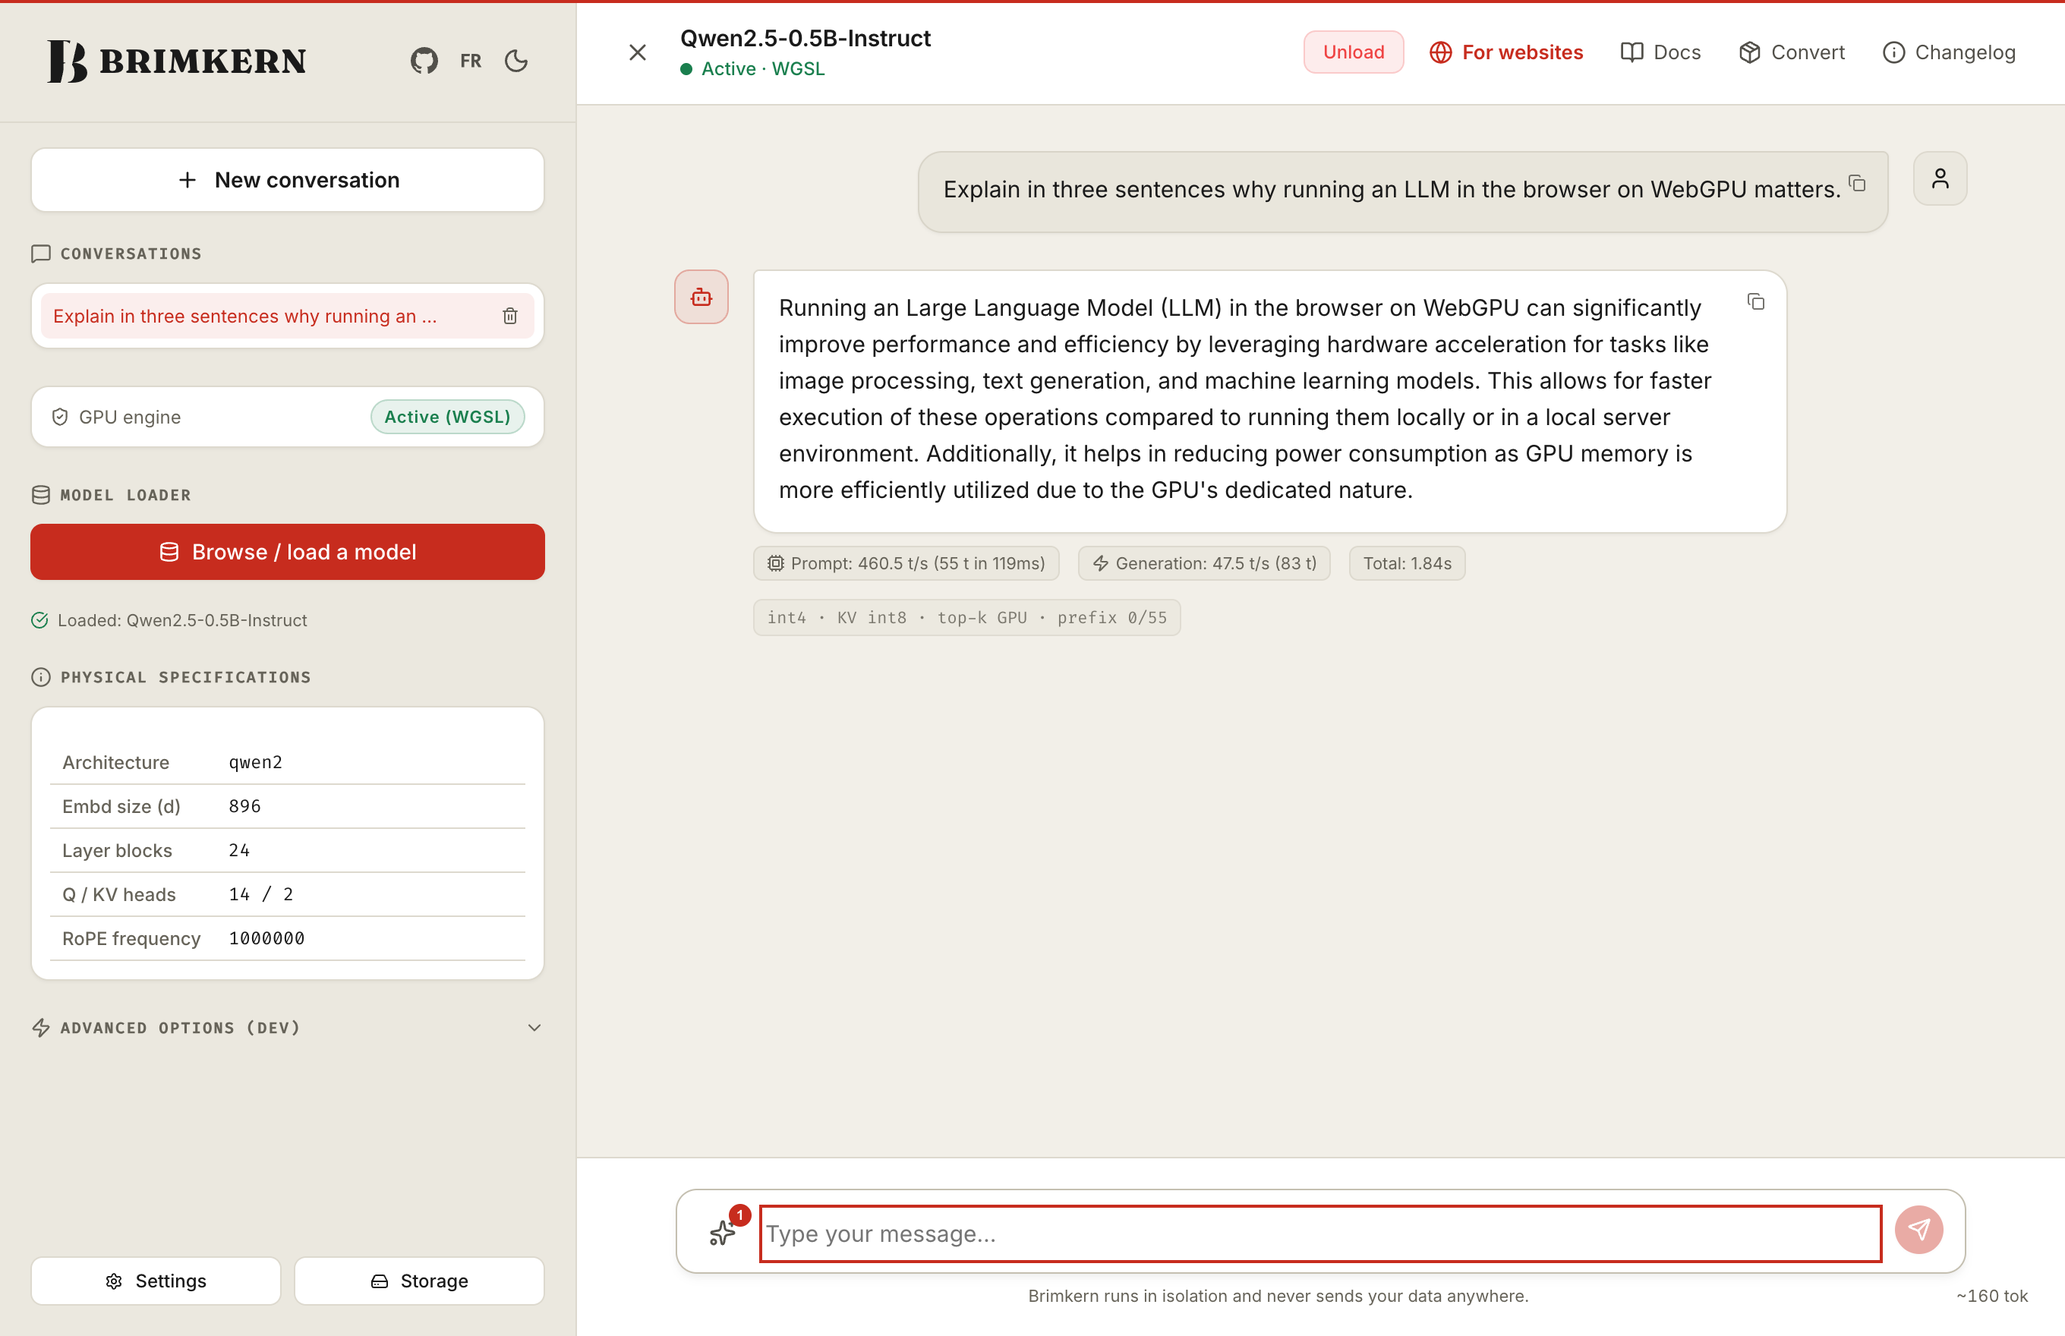
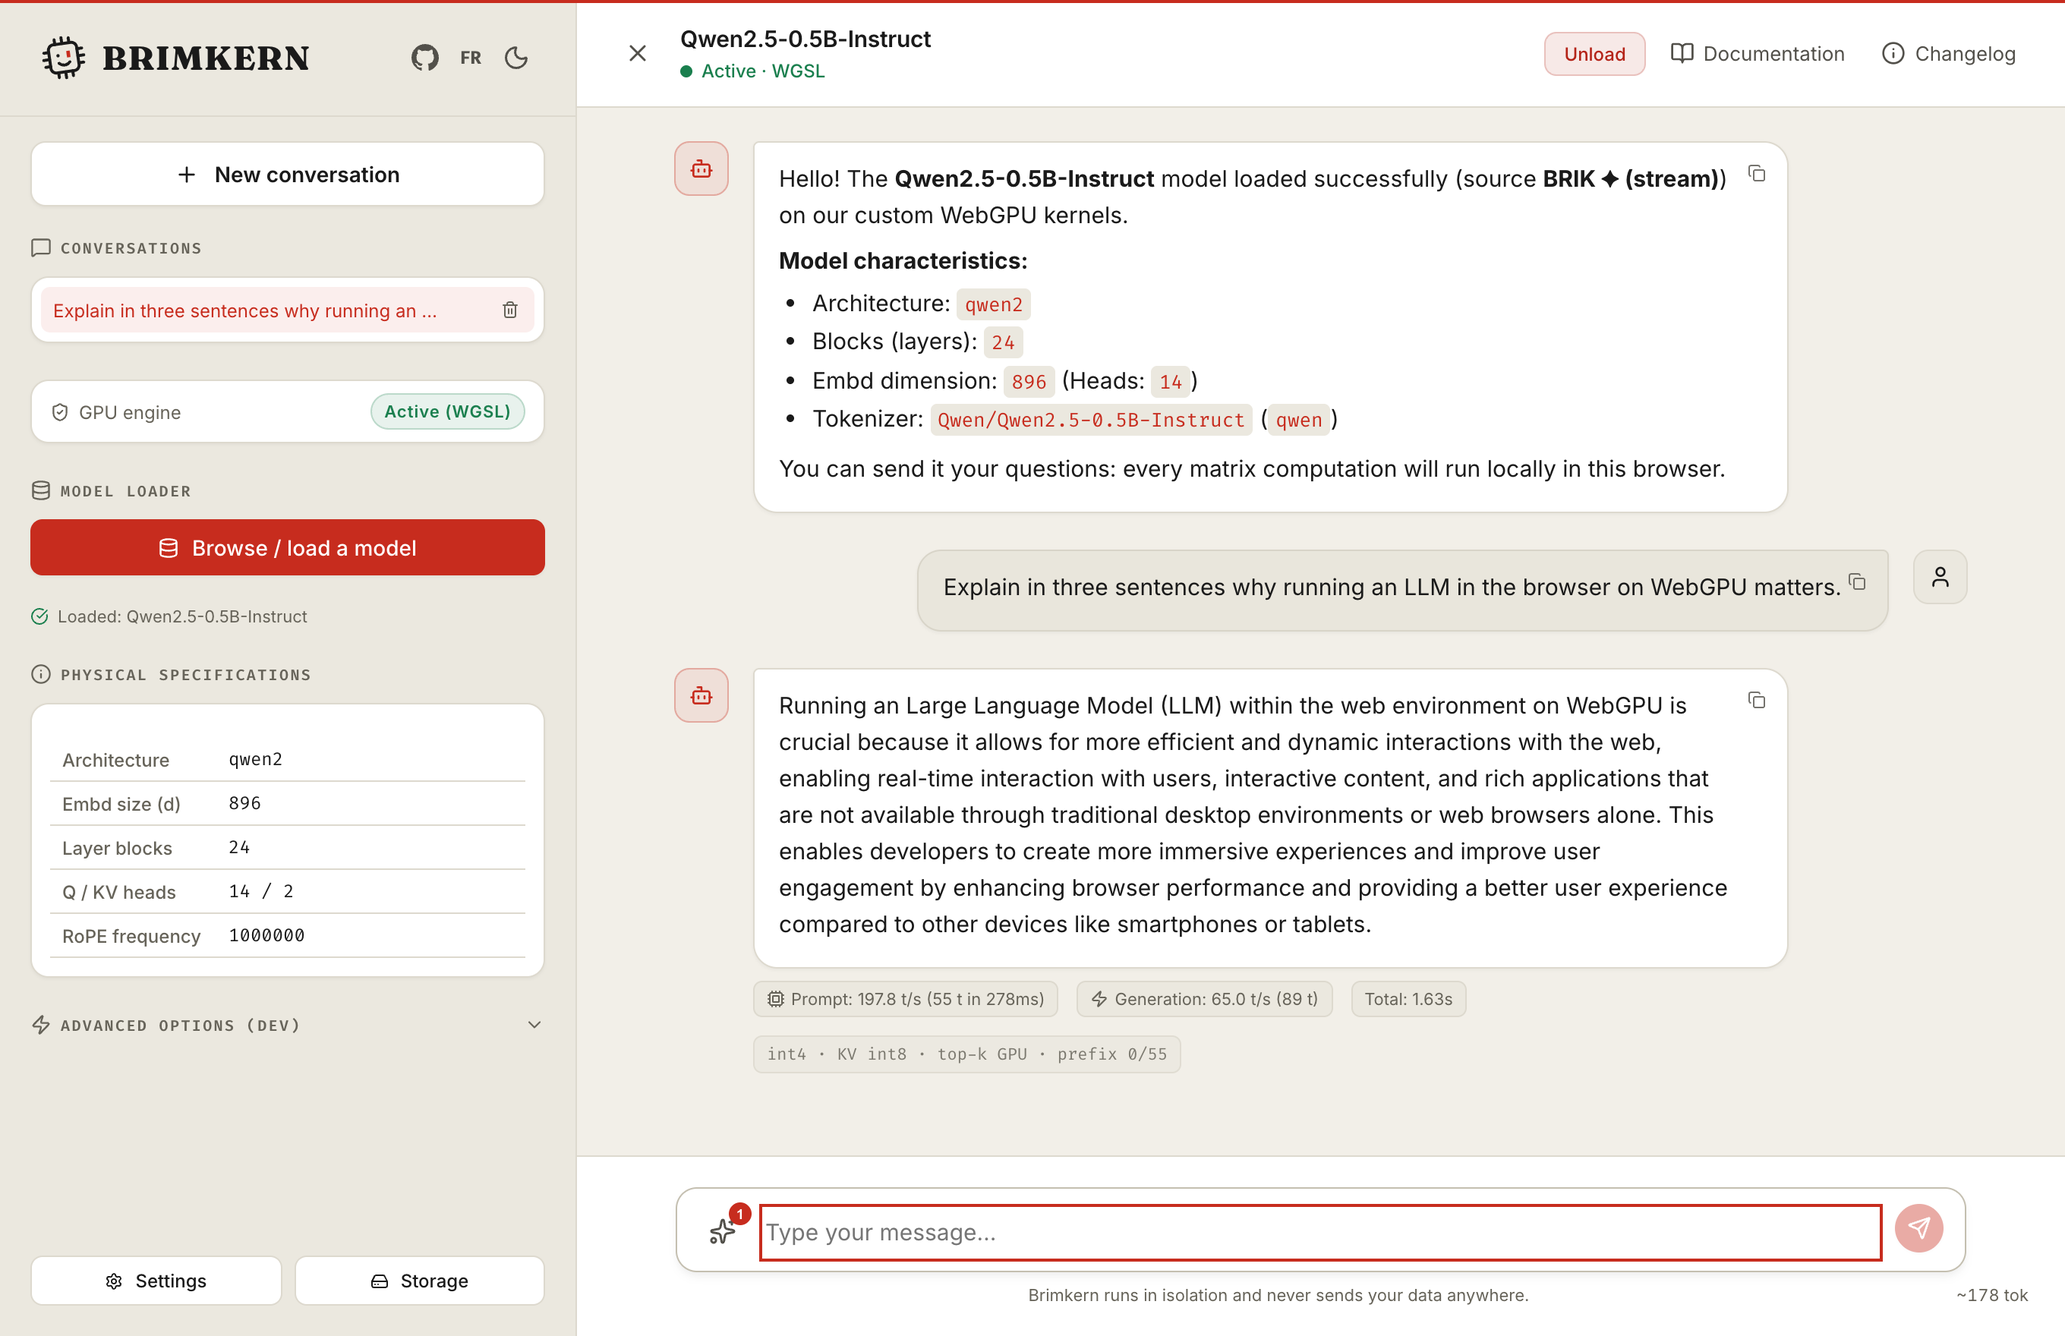
home : le chat, pas un terminal — la console tapée du hero et le bloc CLI s'en vont
Retour de Romain : la console « › Qwen/Qwen3-0.6B-GGUF ✓ resolved ✓ streamed… » du hero se
confondait avec la CLI. La home montre désormais le produit du navigateur tel qu'il est : la
capture du chat remonte juste sous le hero (refaite sur le build de prod avec la nouvelle
marque : même question, vraie réponse, 197,8 tok/s de prefill et 65 tok/s de décodage, texte
alternatif mis à jour avec CES chiffres), le champ Hugging Face dessous. Les étapes que la
console racontait restent expliquées par « D'un nom de dépôt à des tokens ».

La section CLI n'est plus qu'un renvoi vers /cli (plus de bloc terminal, plus de
« npx brimkern » qui ne lançait rien).

Piège évité : la capture sort de l'apparition au défilement (animation-timeline: view()) pour
l'animation temporelle du hero — en première vue, un fondu lié au scroll la laissait à ~74 %
d'opacité en français (cf. le commentaire de globals.css). Mesuré : opacité 1 au chargement en
/ et /fr, 1280 et 390 px. CSS morte de la console retirée. axe-core : 0 violation sur /, /fr
(clair et sombre), /cli, /fr/cli, /docs/cli — les 2 violations de contraste de la landing
disparaissent avec la console.

diff --git a/src/app/LandingClient.tsx b/src/app/LandingClient.tsx
@@ -230,68 +230,29 @@ export default function LandingClient() {
           )}
         </section>
 
-        {/* ── LE GESTE DU PRODUIT ──────────────────────────────────────────────────────────────
-            Ce qu'aucune capture ne montre : on colle un identifiant de dépôt, et ça tourne. Le
-            panneau raconte la séquence, le champ en dessous la déclenche pour de vrai. */}
-        <section className="lp-console-wrap">
-          <div className="lp-console">
-            <div className="lp-console-bar">
-              <span className="lp-dots" aria-hidden><i /><i /><i /></span>
-              {t('paste a model: the Hub hosts tens of thousands', 'collez un modèle : le Hub en héberge des dizaines de milliers')}
-            </div>
-            {/* La console SE TAPE toute seule, en CSS pur : `width` animée en `steps()` sur une police
-                à chasse fixe pour la frappe, puis un fondu par ligne. Pourquoi pas de JS : le texte
-                final est déjà dans le HTML servi (donc identique au rendu serveur, indexable, et sans
-                risque de désaccord d'hydratation): l'animation ne fait que le dévoiler. Un visiteur
-                qui a demandé moins d'animations voit l'état final tout de suite (prefers-reduced-motion).
-                tabIndex : le bloc défile horizontalement sur écran étroit — sans focus clavier son
-                contenu serait inatteignable autrement qu'à la souris (règle axe). */}
-            <div tabIndex={0} className="lp-console-body" role="img"
-                 aria-label={t('Terminal: pasting the model Qwen/Qwen3-0.6B-GGUF resolves it to Qwen3-0.6B-Q4_K_M.gguf, streams it by HTTP ranges, reads its tokenizer from the file, and runs it on your GPU.',
-                               'Terminal : coller le modèle Qwen/Qwen3-0.6B-GGUF le résout en Qwen3-0.6B-Q4_K_M.gguf, le streame par plages HTTP, lit son tokenizer dans le fichier et l’exécute sur votre GPU.')}>
-              <div className="lp-line lp-cmd" aria-hidden>
-                <span className="lp-prompt">›</span>
-                <span className="lp-type">Qwen/Qwen3-0.6B-GGUF</span>
-                <span className="lp-caret">▌</span>
-              </div>
-              {([
-                ['✓', t('resolved', 'résolu'), 'Qwen3-0.6B-Q4_K_M.gguf'],
-                ['✓', t('streamed', 'streamé'), t('HTTP ranges · resumable · cached on device', 'plages HTTP · reprise · gardé sur l’appareil')],
-                ['✓', t('tokenizer', 'tokenizer'), t('read from the file: nothing to configure', 'lu dans le fichier : rien à régler')],
-                ['▸', t('running', 'exécution'), t('on your GPU, in this tab', 'sur votre GPU, dans cet onglet')],
-              ] as [string, string, string][]).map(([mark, label, value], i) => (
-                <div key={label} className="lp-line lp-step" style={{ '--d': `${1.15 + i * 0.3}s` } as React.CSSProperties} aria-hidden>
-                  <span className={mark === '✓' ? 'lp-mark-ok' : 'lp-mark-run'}>{mark}</span>
-                  <span className="lp-key">{label}</span>
-                  <span className="lp-val">{value}</span>
-                </div>
-              ))}
-            </div>
-          </div>
-          <div className="lp-console-input">
-            <HfModelInput onLoad={goToChatWith} examples={HF_EXAMPLES} compact />
-          </div>
-        </section>
-
-        {/* ── LA PREUVE ────────────────────────────────────────────────────────────────────────
-            Après avoir dit « ça tourne dans l'onglet », le montrer : une vraie session, avec ses
-            mesures affichées. Capture prise sur un build de production, rien mis en scène.
-            `loading="lazy"` + dimensions explicites : elle est sous la ligne de flottaison et ne
-            doit ni retarder le premier rendu, ni faire sauter la mise en page en arrivant. */}
+        {/* ── LE PRODUIT, TEL QU'IL EST ─────────────────────────────────────────────────────────
+            La home montre LE CHAT, pas un terminal : les consoles vivent sur /cli (retour de Romain,
+            2026-09-23 : la console tapée du hero se confondait avec la CLI). Une vraie session,
+            capturée sur un build de production (même question, vraie réponse, vraies mesures),
+            puis le champ qui charge n'importe quel modèle du Hub pour de vrai. */}
         <section className="lp-proof">
           <figure className="lp-shot">
             <Image
               src={chatShot}
               placeholder="blur"
+              priority
               sizes="(max-width: 1028px) 100vw, 980px"
-              alt={t('The Brimkern chat: a Qwen 2.5 0.5B answering a question about WebGPU, with its measured throughput underneath. 460 tokens/s prefill, 47.5 tokens/s decode.',
-                     'Le chat Brimkern : un Qwen 2.5 0.5B répond à une question sur WebGPU, avec ses mesures en dessous. 460 tokens/s de prefill, 47,5 tokens/s de décodage.')}
+              alt={t('The Brimkern chat: a Qwen 2.5 0.5B answering a question about WebGPU, with its measured throughput underneath. 197.8 tokens/s prefill, 65 tokens/s decode.',
+                     'Le chat Brimkern : un Qwen 2.5 0.5B répond à une question sur WebGPU, avec ses mesures en dessous. 197,8 tokens/s de prefill, 65 tokens/s de décodage.')}
             />
             <figcaption>
-              {t('A real session, on a laptop GPU. Every reply carries its own measurements: nothing here is estimated.',
-                 'Une vraie session, sur le GPU d’un portable. Chaque réponse porte ses mesures : rien ici n’est estimé.')}
+              {t('A real session, in the tab, on a laptop GPU. Every reply carries its own measurements.',
+                 'Une vraie session, dans l’onglet, sur le GPU d’un portable. Chaque réponse porte ses mesures.')}
             </figcaption>
           </figure>
+          <div className="lp-console-input">
+            <HfModelInput onLoad={goToChatWith} examples={HF_EXAMPLES} compact />
+          </div>
         </section>
 
         {/* ── LES FORCES ───────────────────────────────────────────────────────────────────────── */}
@@ -401,24 +362,18 @@ export default function LandingClient() {
 </script>`}</pre>
         </section>
 
-        {/* ── LA CLI TERMINAL ─────────────────────────────────────────────────────────────────── */}
-        <section className="lp-section lp-sdk" style={{ marginTop: 28 }}>
-          <div>
-            <div className="lp-eyebrow">{t('for your shell & scripts', 'pour votre terminal & vos scripts')}</div>
-            <h2 className="lp-h2">{t('WebGPU & WGSL in your shell, no Python or CUDA needed', 'WebGPU & WGSL dans votre terminal, sans Python ni CUDA')}</h2>
-            <p className="lp-strength-desc">
-              {t('Run coding models directly on your hardware GPU. Pipe source files through stdin, trigger one-shot analyses, or start an interactive chat session with instant .brik weight caching.',
-                 'Faites tourner des modèles de code directement sur votre GPU matériel. Passez des fichiers sources dans les pipes stdin, lancez des analyses en une commande ou discutez en mode interactif avec mise en cache instantanée des poids .brik.')}
-            </p>
-            <Link href={href('/cli')} className="lp-cta-ghost">
-              {t('CLI documentation & workflows', 'Documentation CLI & cas d’usage')} <ArrowRight size={14} />
-            </Link>
-          </div>
-          <pre tabIndex={0} className="lp-code">{`# ${t('One-shot code review with Unix pipes', 'Revue de code en une ligne avec pipe Unix')}
-cat src/app.ts | npx brimkern "Find potential bugs"
-
-# ${t('Interactive REPL with local GPU caching', 'REPL interactif avec cache GPU local')}
-npx brimkern chat --model=coder`}</pre>
+        {/* ── LA CLI ─────────────────────────────────────────────────────────────────────────────
+            Juste un renvoi : les consoles et les démonstrations de terminal vivent sur /cli. */}
+        <section className="lp-section">
+          <div className="lp-eyebrow">{t('also in your terminal', 'aussi dans votre terminal')}</div>
+          <h2 className="lp-h2">{t('The same engine, as a coding assistant for your shell', 'Le même moteur, en assistant de code pour votre terminal')}</h2>
+          <p className="lp-strength-desc" style={{ maxWidth: 640 }}>
+            {t('It reads the project you are in and runs Qwen 3 4B on your GPU. Nothing leaves the machine.',
+               'Il lit le projet dans lequel vous êtes et fait tourner Qwen 3 4B sur votre GPU. Rien ne quitte la machine.')}
+          </p>
+          <Link href={href('/cli')} className="lp-cta-ghost">
+            {t('See the CLI', 'Voir la CLI')} <ArrowRight size={14} />
+          </Link>
         </section>
 
         {/* ── LES PORTES ───────────────────────────────────────────────────────────────────────── */}

diff --git a/src/app/globals.css b/src/app/globals.css
@@ -1384,135 +1384,6 @@ html.dark ::-webkit-scrollbar-thumb:hover {
   line-height: 1.5;
 }
 
-/* ── Le panneau « coller un modèle » ───────────────────────────────────────────────────────── */
-.lp-console-wrap {
-  margin: 54px 0 0;
-}
-
-.lp-console {
-  border: 1px solid var(--border-color);
-  border-radius: 12px;
-  overflow: hidden;
-  background: var(--bg-code);
-}
-
-.lp-console-bar {
-  display: flex;
-  align-items: center;
-  gap: 10px;
-  font-family: var(--font-mono);
-  font-size: 11px;
-  letter-spacing: 0.4px;
-  color: var(--text-muted);
-  padding: 9px 14px;
-  border-bottom: 1px solid var(--border-color);
-  background: var(--bg-sidebar);
-}
-
-/* Les trois pastilles d'une fenêtre de terminal — en encre, pas en feux tricolores : on cite le
-   genre sans copier macOS. */
-.lp-dots {
-  display: flex;
-  gap: 5px;
-  flex-shrink: 0;
-}
-
-.lp-dots i {
-  width: 8px;
-  height: 8px;
-  border-radius: 50%;
-  background: var(--border-color);
-  border: 1px solid color-mix(in srgb, var(--text-muted) 35%, transparent);
-}
-
-.lp-dots i:first-child {
-  background: color-mix(in srgb, var(--accent) 55%, transparent);
-  border-color: color-mix(in srgb, var(--accent) 60%, transparent);
-}
-
-.lp-console-body {
-  margin: 0;
-  padding: 16px 14px;
-  overflow-x: auto;
-  font-family: var(--font-mono);
-  font-size: 12.5px;
-  line-height: 1.85;
-  color: var(--text-secondary);
-  white-space: pre;
-}
-
-.lp-line {
-  display: flex;
-  gap: 8px;
-  white-space: pre;
-}
-
-.lp-prompt {
-  color: var(--accent-text);
-  font-weight: 700;
-}
-
-.lp-cmd {
-  color: var(--text-primary);
-  font-weight: 600;
-}
-
-/* La FRAPPE : la largeur passe de 0 à la longueur du texte par pas d'un caractère. Ça n'est
-   possible qu'en chasse fixe — d'où `ch`, qui vaut exactement un caractère ici. 20 = la longueur
-   de « Qwen/Qwen3-0.6B-GGUF » (identique dans les deux langues, c'est un identifiant). */
-.lp-type {
-  display: inline-block;
-  overflow: hidden;
-  white-space: nowrap;
-  vertical-align: bottom;
-  width: 20ch;
-  animation: lp-typing 1.15s steps(20) 0.35s both;
-}
-
-.lp-caret {
-  color: var(--accent-text);
-  animation: lp-blink 1.05s step-end infinite;
-}
-
-@keyframes lp-typing {
-  from { width: 0; }
-  to { width: 20ch; }
-}
-
-@keyframes lp-blink {
-  0%, 45% { opacity: 1; }
-  46%, 100% { opacity: 0; }
-}
-
-/* Chaque étape apparaît à son tour (--d posé au point d'appel) : la séquence se LIT, au lieu de
-   tomber d'un bloc. */
-.lp-step {
-  opacity: 0;
-  animation: lp-step-in 0.4s ease var(--d, 0s) both;
-}
-
-@keyframes lp-step-in {
-  from { opacity: 0; transform: translateY(3px); }
-  to { opacity: 1; transform: none; }
-}
-
-.lp-mark-ok { color: var(--success); }
-.lp-mark-run { color: var(--accent-text); }
-
-.lp-key {
-  color: var(--text-primary);
-  min-width: 11ch;
-}
-
-.lp-val { color: var(--text-secondary); }
-
-/* Demande explicite de moins d'animation : on montre l'état final, immédiatement. */
-@media (prefers-reduced-motion: reduce) {
-  .lp-type { animation: none; width: 20ch; }
-  .lp-step { animation: none; opacity: 1; }
-  .lp-caret { animation: none; }
-}
-
 /* ── La preuve : une vraie capture, encadrée ─────────────────────────────────────────────────── */
 .lp-proof {
   margin: 54px 0 0;
@@ -1730,7 +1601,6 @@ html.dark ::-webkit-scrollbar-thumb:hover {
     display: none;
   }
   .lp-section,
-  .lp-console-wrap,
   .lp-proof {
     margin-top: 52px;
   }
@@ -1806,15 +1676,15 @@ html.dark ::-webkit-scrollbar-thumb:hover {
    deux fondus imbriqués donnent un rendu trouble et une opacité qui se multiplie. Restent les blocs
    qui n'ont pas d'enfants à échelonner (la capture, le panneau encre) ; les rangées, elles,
    s'animent enfant par enfant. */
-/* ⚠ `.lp-console-wrap` n'est PAS dans cette liste, et c'est délibéré : elle est trop haut dans la
+/* ⚠ `.lp-proof` (la capture du chat, juste sous le hero depuis le 2026-09-23) n'est PAS dans cette
+   liste, pour la raison qui en excluait déjà l'ancienne console : `.lp-console-wrap` était trop haut dans la
    page pour une apparition au défilement. En français — dont les phrases sont plus longues — le
    hero la repousse sous la ligne de flottaison, sa plage `entry → cover 22%` n'est donc jamais
    parcourue tant qu'on ne scrolle pas, et elle restait affichée à **73,7 % d'opacité** (mesuré au
    chargement de /fr, contre 100 % sur la version anglaise où elle tient dans l'écran). Une
    animation liée au scroll ne convient qu'à ce qui est SOUS la première vue ; ce qui est visible
-   d'emblée s'anime dans le temps, comme le hero (cf. `.lp-console-wrap` plus bas). */
+   d’emblée s’anime dans le temps, comme le hero (cf. `.lp-proof` plus bas). */
 @supports (animation-timeline: view()) {
-  .lp-proof,
   .lp-ink,
   .lp-section > .lp-eyebrow,
   .lp-section > .lp-h2 {
@@ -1864,7 +1734,6 @@ html.dark ::-webkit-scrollbar-thumb:hover {
   }
   .lp-proof,
   .lp-ink,
-  .lp-console-wrap,
   .lp-section > .lp-eyebrow,
   .lp-section > .lp-h2,
   .lp-slices-svg rect {
@@ -2306,10 +2175,10 @@ html.dark .docs-code {
 .lp-hero > *:nth-child(4) { animation-delay: .26s; }
 .lp-hero > *:nth-child(5) { animation-delay: .34s; }
 
-/* La console suit le hero dans la même cascade TEMPORELLE (et non au défilement) : elle est dans la
-   première vue sur écran large, et juste dessous en français — dans les deux cas elle doit être
-   pleinement lisible sans avoir à scroller. */
-.lp-console-wrap {
+/* La capture du chat suit le hero dans la même cascade TEMPORELLE (et non au défilement) : elle est
+   dans la première vue sur écran large, et juste dessous en français — dans les deux cas elle doit
+   être pleinement lisible sans avoir à scroller. */
+.lp-proof {
   animation: lp-rise .5s ease .42s both;
 }
 
